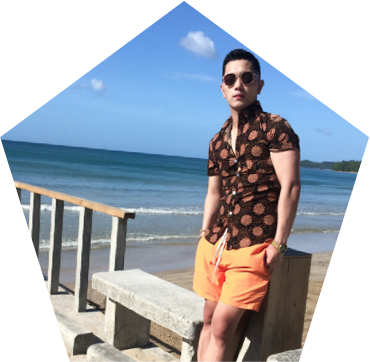
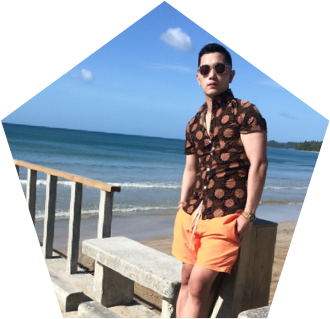
fix bugs

diff --git a/build/static/css/main.94dd85ab.chunk.css b/build/static/css/main.94dd85ab.chunk.css
@@ -1,0 +1,2 @@
+html{width:100%;height:100%;overflow:hidden;position:relative}body{margin:0;padding:0;font-family:-apple-system,BlinkMacSystemFont,Segoe UI,Roboto,Oxygen,Ubuntu,Cantarell,Fira Sans,Droid Sans,Helvetica Neue,sans-serif;-webkit-font-smoothing:antialiased;-moz-osx-font-smoothing:grayscale}code{font-family:source-code-pro,Menlo,Monaco,Consolas,Courier New,monospace}.App{text-align:center}@font-face{font-family:Raleway-bold;src:url(/build/static/media/raleway-bold.8548037b.woff)}@font-face{font-family:Raleway;font-style:normal;font-weight:400;src:local("Raleway"),local("Raleway-Regular"),url(/build/static/media/raleway-v13-latin-regular.e18be132.eot?#iefix) format("embedded-opentype"),url(/build/static/media/raleway-v13-latin-regular.43c849ea.woff2) format("woff2"),url(/build/static/media/raleway-v13-latin-regular.60b344eb.woff) format("woff"),url(/build/static/media/raleway-v13-latin-regular.5d060e06.ttf) format("truetype"),url(/build/static/media/raleway-v13-latin-regular.f6c57152.svg#Raleway) format("svg")}.App-logo{-webkit-animation:App-logo-spin 20s linear infinite;animation:App-logo-spin 20s linear infinite;height:40vmin;pointer-events:none}.ant-menu-item-active{color:#fff!important;border-bottom:unset!important}.polygon-collection{margin-bottom:10%}.info-container,.polygon-collection{display:flex;justify-content:space-around}.info-container{margin-bottom:50px}.poly-image{width:50%}.poly-image-active{position:absolute;left:-600px;-webkit-animation:slide-left 1s forwards;-webkit-animation-delay:1.5s;animation:slide-left 1s forwards;animation-delay:1.5s}.poly-image>h1{color:#616161;margin-bottom:2px;font-family:Raleway-bold}.social-container{display:flex;justify-content:center;padding-left:50px}a{color:inherit!important}.social-icons{font-size:25px;padding-right:50px}.box-stats{padding-top:5%;width:50%;display:flex!important;flex-direction:column!important}.box-stats-active{right:-1100px;-webkit-animation:slide-right 1s forwards;-webkit-animation-delay:1s;animation:slide-right 1s forwards;animation-delay:1s}.stats-container{display:flex!important;flex-direction:row!important;width:100%!important}.stats-title{color:#fff;font-weight:600;border-radius:50px;width:30%;background:#04c2c9;padding:2% 5% 2% 3%}.ant-progress-outer{padding:2% 5% 3% 3%}.ant-progress-bg,.ant-progress-inner{height:17px!important}.ant-progress-bg{background-image:-webkit-gradient(linear,left top,right top,from(#04c2c9),to(#e31b6d));background-image:-webkit-linear-gradient(left,#04c2c9,#e31b6d);background-image:linear-gradient(90deg,#04c2c9,#e31b6d)}.icon-polygon{font-size:60px;padding-top:10%}.polygon1{color:#fff;width:45%;background:#04c2c9;height:10vh;margin-bottom:5px;-webkit-clip-path:polygon(50% 0,100% 38%,82% 100%,18% 100%,0 38%);clip-path:polygon(50% 0,100% 38%,82% 100%,18% 100%,0 38%);animation:flip 1s;-webkit-animation:anim 10s linear infinite;animation:anim 10s linear infinite}.poly-image>p{margin-bottom:unset!important}.polygon-container{display:flex!important;flex-direction:column!important;align-items:center!important}.poly-text{font-family:Raleway-bold}.poly-text>h1{color:#616161;margin:unset}.poly-text>p{font-family:Raleway;padding:0 10%;margin-bottom:unset}.second-container{font-family:Raleway;padding-top:2%;padding-right:15px;padding-left:15px;margin-right:auto;margin-left:auto}.poly-head-container{padding:0 0 0 5%;margin-bottom:unset!important}.third-container{background:#1b242f;height:100vh}.form-text{margin:0 10% 5%;padding:0 1%;color:#e31b6d}.form-container{margin:0 10%;padding:0 20%}.header-form-text{font-size:25px;font-family:Raleway;font-weight:500}.form-container-active{bottom:-1000px;-webkit-animation:slide-bottom 1s forwards;-webkit-animation-delay:1s;animation:slide-bottom 1s forwards;animation-delay:1s}.ant-input{font-size:18px!important;font-family:Raleway!important}#message{height:10vh!important}.ant-btn-primary{background:#04c2c9!important;border:unset!important;width:20%!important;font-size:18px!important;font-family:Raleway-bold!important;margin-top:5%}@media screen and (max-width:770px){.poly-image>img{height:42vh}.hero-text-second{font-size:35px!important}.icon-polygon{padding-top:24%;font-size:40px}.form-container{margin:0;padding:0 5%}.poly-text>h1{font-size:15px}.poly-image>h1,.poly-text>p{font-size:14px}.poly-image>p{font-size:10px}.form-text{margin-bottom:2px}}@media screen and (max-width:670px){.poly-image>img{height:43vh}.poly-image>h1{font-size:2em}.poly-image>p{font-size:14px}.poly-text>h1{font-size:2em!important}.poly-text>p{font-size:14px}.stats-container-third{padding:5px;height:100vh}.ant-progress-text{color:#fff!important}.box-stats{margin-top:5%}.stats-container{margin-bottom:5%}.poly-image{padding:10% 5% 0!important}.ant-menu-horizontal{line-height:40px!important}.polygon-container{width:40%;padding:18% 0 0 10%}.box-stats,.poly-image{width:100%}.arrow{color:#616161!important}.ant-btn-primary{margin-top:unset}.form-text{margin:unset;margin-bottom:5px;margin-top:5%}.header-form-text{font-size:15px}}@media screen and (max-width:428px){.poly-head-container{padding-left:4%;padding-top:8%}.polygon-container{padding-bottom:unset;padding-top:5%}.polygon-container:first-child,.polygon-container:nth-child(3){margin-right:50px}.hero-text{font-size:24px!important}.hero-text-second{font-size:20px!important}.hero-text-third{font-size:15px!important}.slant-text{margin-top:50%;padding-top:70%}.ant-menu{padding-right:10%!important}.poly-image{padding:10% 5% 0!important}.ant-btn-primary{width:30%!important}}@media screen and (max-width:400px){.stats-container-third{padding-top:20%}.submit-message{left:23%}.box-stats,.stats-not-active{padding-top:unset!important}.box-stats{margin-top:unset!important}.poly-head-container{padding-top:unset}.poly-image{padding-top:5%!important;padding-left:0!important}.ant-menu-overflowed-submenu{padding-right:unset!important}#sky{height:100vh!important}.poly-head-container{padding-left:unset;margin-top:10%!important;margin-left:20px!important}.polygon-container:first-child,.polygon-container:nth-child(3){margin-right:25px!important}.polygon-container{margin-bottom:5%}.hero-text{font-size:19px!important}.hero-text-second{font-size:16px!important}.hero-text-third{font-size:11px!important}.slant-text{margin-top:50%;padding-top:70%}.ant-menu{padding-left:10%!important;padding-right:10%!important}}@media (min-width:768px){.second-container{width:750px}}@media (min-width:992px){.second-container{width:970px}}@media (min-width:1200px){.second-container{width:1170px}}@media (min-width:1350px){.second-container{width:1300px}}.App-header{background-color:#282c34;min-height:100vh;display:flex;flex-direction:column;align-items:center;justify-content:center;font-size:calc(10px + 2vmin);color:#fff}.nav-bar{font-family:Raleway-Bold;font-size:15px;text-align:right;text-transform:uppercase;text-rendering:optimizeLegibility}.ant-menu{z-index:99999!important;border-bottom:2px solid #e31b6d!important}.ant-menu-item{margin-right:3%!important}.ant-menu-item-selected{color:#04c2c9!important;border-bottom:2px solid #04c2c9!important}.slant-text{font-weight:600}.hero-text{margin-left:7%;color:#fff}.hero-text,.hero-text-second{letter-spacing:.15em;font-family:Raleway-bold;font-size:40px;text-align:left;text-transform:uppercase;text-rendering:optimizeLegibility}.hero-text-second{margin-left:15%;color:#f5f5f5}.hero-text-third{margin-left:7%;color:#f5f5f5;letter-spacing:.15em;font-family:Raleway-bold;font-size:20px;text-align:left;text-transform:uppercase;text-rendering:optimizeLegibility}.App-link{color:#61dafb}.arrow{text-align:center;margin:8% 0}.bounce{-webkit-animation:bounce 2s infinite;animation:bounce 2s infinite}.polygon-active{-webkit-transition:.6s;transition:.6s;-webkit-transform-style:preserve-3d;transform-style:preserve-3d;position:relative;-webkit-animation-name:flip;animation-name:flip;-webkit-animation-duration:.6s;animation-duration:.6s;-webkit-animation-fill-mode:forwards;animation-fill-mode:forwards;-webkit-animation-iteration-count:2;animation-iteration-count:2;-webkit-animation-delay:3s;animation-delay:0s}.submit-message{-webkit-animation:hide-submit-message 3s ease-in 0s;animation:hide-submit-message 3s ease-in 0s;visibility:hidden;z-index:100000;position:absolute!important;left:35%}@-webkit-keyframes slide-left{to{left:0;position:unset}}@keyframes slide-left{to{left:0;position:unset}}@-webkit-keyframes slide-right{to{right:0;position:unset}}@keyframes slide-right{to{right:0;position:unset}}@-webkit-keyframes slide-bottom{to{bottom:0;position:unset}}@keyframes slide-bottom{to{bottom:0;position:unset}}@-webkit-keyframes flip{0%{-webkit-transform:rotateY(0deg);transform:rotateY(0deg)}to{-webkit-transform:rotateY(180deg);transform:rotateY(180deg)}}@keyframes flip{0%{-webkit-transform:rotateY(0deg);transform:rotateY(0deg)}to{-webkit-transform:rotateY(180deg);transform:rotateY(180deg)}}@-webkit-keyframes hide-submit-message{0%{opacity:1;visibility:visible}to{opacity:0;visibility:hidden}}@keyframes hide-submit-message{0%{opacity:1;visibility:visible}to{opacity:0;visibility:hidden}}@-webkit-keyframes bounce{0%,20%,50%,80%,to{-webkit-transform:translateY(0);transform:translateY(0)}40%{-webkit-transform:translateY(-30px);transform:translateY(-30px)}60%{-webkit-transform:translateY(-15px);transform:translateY(-15px)}}@keyframes bounce{0%,20%,50%,80%,to{-webkit-transform:translateY(0);transform:translateY(0)}40%{-webkit-transform:translateY(-30px);transform:translateY(-30px)}60%{-webkit-transform:translateY(-15px);transform:translateY(-15px)}}@-webkit-keyframes App-logo-spin{0%{-webkit-transform:rotate(0deg);transform:rotate(0deg)}to{-webkit-transform:rotate(1turn);transform:rotate(1turn)}}@keyframes App-logo-spin{0%{-webkit-transform:rotate(0deg);transform:rotate(0deg)}to{-webkit-transform:rotate(1turn);transform:rotate(1turn)}}
+/*# sourceMappingURL=main.94dd85ab.chunk.css.map */

diff --git a/build/index.html b/build/index.html
@@ -1,1 +1,1 @@
-<!doctype html><html lang="en"><head><meta charset="utf-8"/><link rel="shortcut icon" href="/build/favicon.ico"/><meta name="viewport" content="width=device-width,initial-scale=1"/><meta name="theme-color" content="#000000"/><link rel="manifest" href="/build/manifest.json"/><title>React App</title><link href="/build/static/css/2.a414b599.chunk.css" rel="stylesheet"><link href="/build/static/css/main.333cb8fd.chunk.css" rel="stylesheet"></head><body><noscript>You need to enable JavaScript to run this app.</noscript><div id="root"></div><script>!function(f){function e(e){for(var r,t,n=e[0],o=e[1],u=e[2],i=0,l=[];i<n.length;i++)t=n[i],p[t]&&l.push(p[t][0]),p[t]=0;for(r in o)Object.prototype.hasOwnProperty.call(o,r)&&(f[r]=o[r]);for(s&&s(e);l.length;)l.shift()();return c.push.apply(c,u||[]),a()}function a(){for(var e,r=0;r<c.length;r++){for(var t=c[r],n=!0,o=1;o<t.length;o++){var u=t[o];0!==p[u]&&(n=!1)}n&&(c.splice(r--,1),e=i(i.s=t[0]))}return e}var t={},p={1:0},c=[];function i(e){if(t[e])return t[e].exports;var r=t[e]={i:e,l:!1,exports:{}};return f[e].call(r.exports,r,r.exports,i),r.l=!0,r.exports}i.m=f,i.c=t,i.d=function(e,r,t){i.o(e,r)||Object.defineProperty(e,r,{enumerable:!0,get:t})},i.r=function(e){"undefined"!=typeof Symbol&&Symbol.toStringTag&&Object.defineProperty(e,Symbol.toStringTag,{value:"Module"}),Object.defineProperty(e,"__esModule",{value:!0})},i.t=function(r,e){if(1&e&&(r=i(r)),8&e)return r;if(4&e&&"object"==typeof r&&r&&r.__esModule)return r;var t=Object.create(null);if(i.r(t),Object.defineProperty(t,"default",{enumerable:!0,value:r}),2&e&&"string"!=typeof r)for(var n in r)i.d(t,n,function(e){return r[e]}.bind(null,n));return t},i.n=function(e){var r=e&&e.__esModule?function(){return e.default}:function(){return e};return i.d(r,"a",r),r},i.o=function(e,r){return Object.prototype.hasOwnProperty.call(e,r)},i.p="/build/";var r=window.webpackJsonp=window.webpackJsonp||[],n=r.push.bind(r);r.push=e,r=r.slice();for(var o=0;o<r.length;o++)e(r[o]);var s=n;a()}([])</script><script src="/build/static/js/2.6781687e.chunk.js"></script><script src="/build/static/js/main.472211af.chunk.js"></script></body></html>
+<!doctype html><html lang="en"><head><meta charset="utf-8"/><link rel="shortcut icon" href="/build/favicon.ico"/><meta name="viewport" content="width=device-width,initial-scale=1"/><meta name="theme-color" content="#000000"/><link rel="manifest" href="/build/manifest.json"/><title>React App</title><link href="/build/static/css/2.a414b599.chunk.css" rel="stylesheet"><link href="/build/static/css/main.94dd85ab.chunk.css" rel="stylesheet"></head><body><noscript>You need to enable JavaScript to run this app.</noscript><div id="root"></div><script>!function(f){function e(e){for(var r,t,n=e[0],o=e[1],u=e[2],i=0,l=[];i<n.length;i++)t=n[i],p[t]&&l.push(p[t][0]),p[t]=0;for(r in o)Object.prototype.hasOwnProperty.call(o,r)&&(f[r]=o[r]);for(s&&s(e);l.length;)l.shift()();return c.push.apply(c,u||[]),a()}function a(){for(var e,r=0;r<c.length;r++){for(var t=c[r],n=!0,o=1;o<t.length;o++){var u=t[o];0!==p[u]&&(n=!1)}n&&(c.splice(r--,1),e=i(i.s=t[0]))}return e}var t={},p={1:0},c=[];function i(e){if(t[e])return t[e].exports;var r=t[e]={i:e,l:!1,exports:{}};return f[e].call(r.exports,r,r.exports,i),r.l=!0,r.exports}i.m=f,i.c=t,i.d=function(e,r,t){i.o(e,r)||Object.defineProperty(e,r,{enumerable:!0,get:t})},i.r=function(e){"undefined"!=typeof Symbol&&Symbol.toStringTag&&Object.defineProperty(e,Symbol.toStringTag,{value:"Module"}),Object.defineProperty(e,"__esModule",{value:!0})},i.t=function(r,e){if(1&e&&(r=i(r)),8&e)return r;if(4&e&&"object"==typeof r&&r&&r.__esModule)return r;var t=Object.create(null);if(i.r(t),Object.defineProperty(t,"default",{enumerable:!0,value:r}),2&e&&"string"!=typeof r)for(var n in r)i.d(t,n,function(e){return r[e]}.bind(null,n));return t},i.n=function(e){var r=e&&e.__esModule?function(){return e.default}:function(){return e};return i.d(r,"a",r),r},i.o=function(e,r){return Object.prototype.hasOwnProperty.call(e,r)},i.p="/build/";var r=window.webpackJsonp=window.webpackJsonp||[],n=r.push.bind(r);r.push=e,r=r.slice();for(var o=0;o<r.length;o++)e(r[o]);var s=n;a()}([])</script><script src="/build/static/js/2.6781687e.chunk.js"></script><script src="/build/static/js/main.472211af.chunk.js"></script></body></html>

diff --git a/build/precache-manifest.293bfec864c10e50866c80f4e73e3ddc.js b/build/precache-manifest.293bfec864c10e50866c80f4e73e3ddc.js
@@ -1,6 +1,6 @@
 self.__precacheManifest = (self.__precacheManifest || []).concat([
   {
-    "revision": "520d7c598d17aa0795ce21c64d65a040",
+    "revision": "5011dba1df44c2582fa1b84d8f07098d",
     "url": "/build/index.html"
   },
   {
@@ -8,15 +8,15 @@ self.__precacheManifest = (self.__precacheManifest || []).concat([
     "url": "/build/static/css/2.a414b599.chunk.css"
   },
   {
-    "revision": "ccb53aa7148b34c7d0d2",
-    "url": "/build/static/css/main.333cb8fd.chunk.css"
+    "revision": "b92ed2c36adf2b0f3b06",
+    "url": "/build/static/css/main.94dd85ab.chunk.css"
   },
   {
     "revision": "3c46b9a693bdd915747b",
     "url": "/build/static/js/2.6781687e.chunk.js"
   },
   {
-    "revision": "ccb53aa7148b34c7d0d2",
+    "revision": "b92ed2c36adf2b0f3b06",
     "url": "/build/static/js/main.472211af.chunk.js"
   },
   {

diff --git a/src/App.css b/src/App.css
@@ -211,7 +211,7 @@ align-items: center !important;
 }
 
 
-@media (max-width: 770px) {
+@media screen and (max-width: 770px) {
   .poly-image > img {
     height: 42vh;
   }
@@ -245,7 +245,7 @@ align-items: center !important;
   }
 
 }
-@media (max-width: 670px) {
+@media screen and (max-width: 670px) {
   .poly-image > img {
     height: 43vh;
   }
@@ -309,7 +309,7 @@ align-items: center !important;
 
 }
 
-@media (max-width: 428px) {
+@media screen and (max-width: 428px) {
 	.poly-head-container {
 		/* width: 750px; */
     padding-left: 4%;
@@ -352,7 +352,7 @@ align-items: center !important;
     width: 30% !important;
   }
 }
-@media (max-width: 400px) {
+@media screen and (max-width: 400px) {
   .stats-container-third {
     padding-top: 20%;
   }

diff --git a/build/service-worker.js b/build/service-worker.js
@@ -14,7 +14,7 @@
 importScripts("https://storage.googleapis.com/workbox-cdn/releases/4.3.1/workbox-sw.js");
 
 importScripts(
-  "/build/precache-manifest.164f439dce495c0a6489248a9266f73a.js"
+  "/build/precache-manifest.293bfec864c10e50866c80f4e73e3ddc.js"
 );
 
 self.addEventListener('message', (event) => {

diff --git a/src/components/Page/second3.js b/src/components/Page/second3.js
@@ -1,6 +1,6 @@
 import React, {Component} from "react";
 import {Icon, Row, Col, Progress} from "antd";
-import polyimage from "./polyimg.svg";
+import polyimage from "./polyimg.png";
 
 class First extends Component {
   constructor(props) {

diff --git a/src/components/Page/second.js b/src/components/Page/second.js
@@ -1,6 +1,6 @@
 import React, {Component} from "react";
 import {Icon, Row, Col, Progress} from "antd";
-import polyimage from './polyimg.svg';
+import polyimage from './polyimg.png';
 import Social from './PageComponents/social'
 
 

diff --git a/src/components/Page/second2.js b/src/components/Page/second2.js
@@ -1,6 +1,6 @@
 import React, {Component} from "react";
 import {Icon, Row, Col, Progress} from "antd";
-import polyimage from './polyimg.svg';
+import polyimage from './polyimg.png';
 import Social from './PageComponents/social'
 
 
